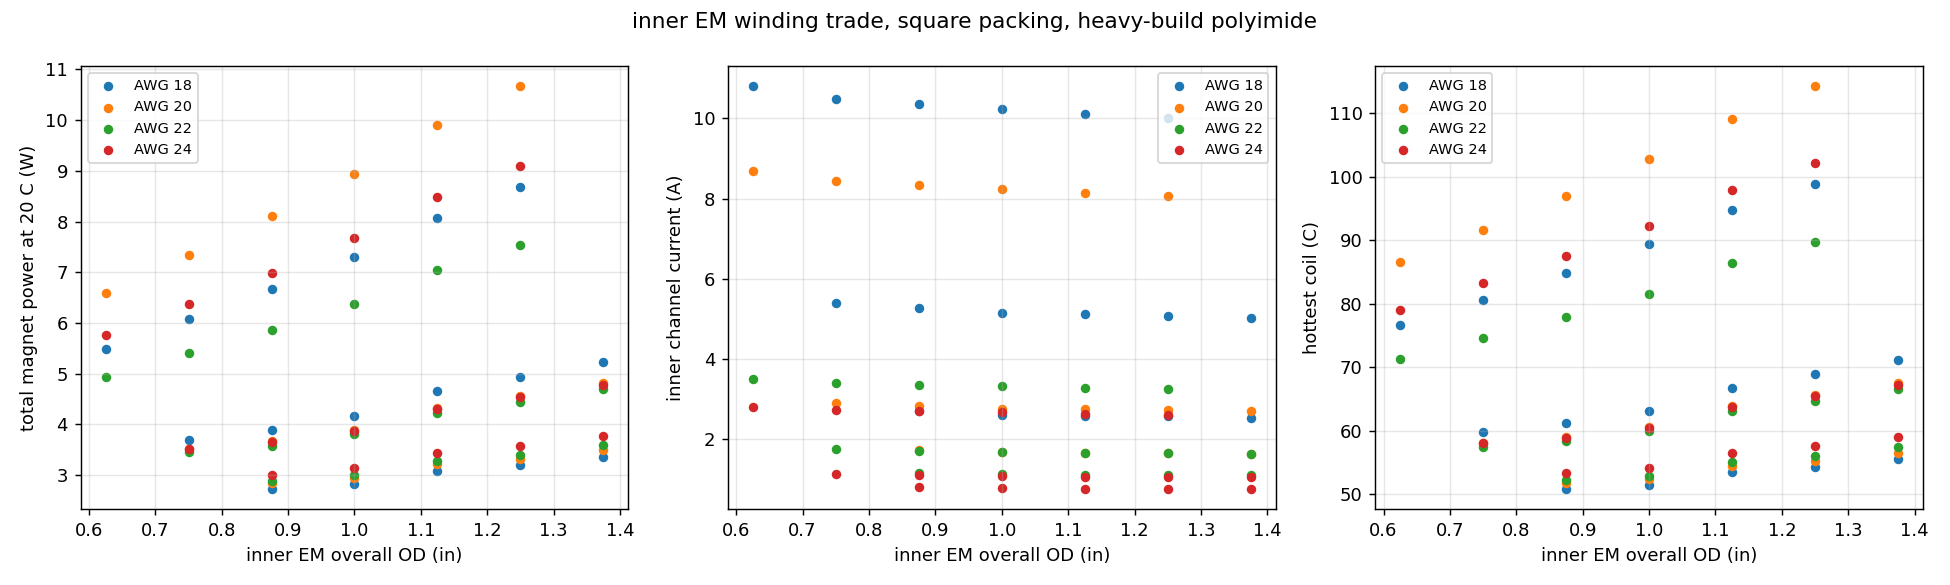
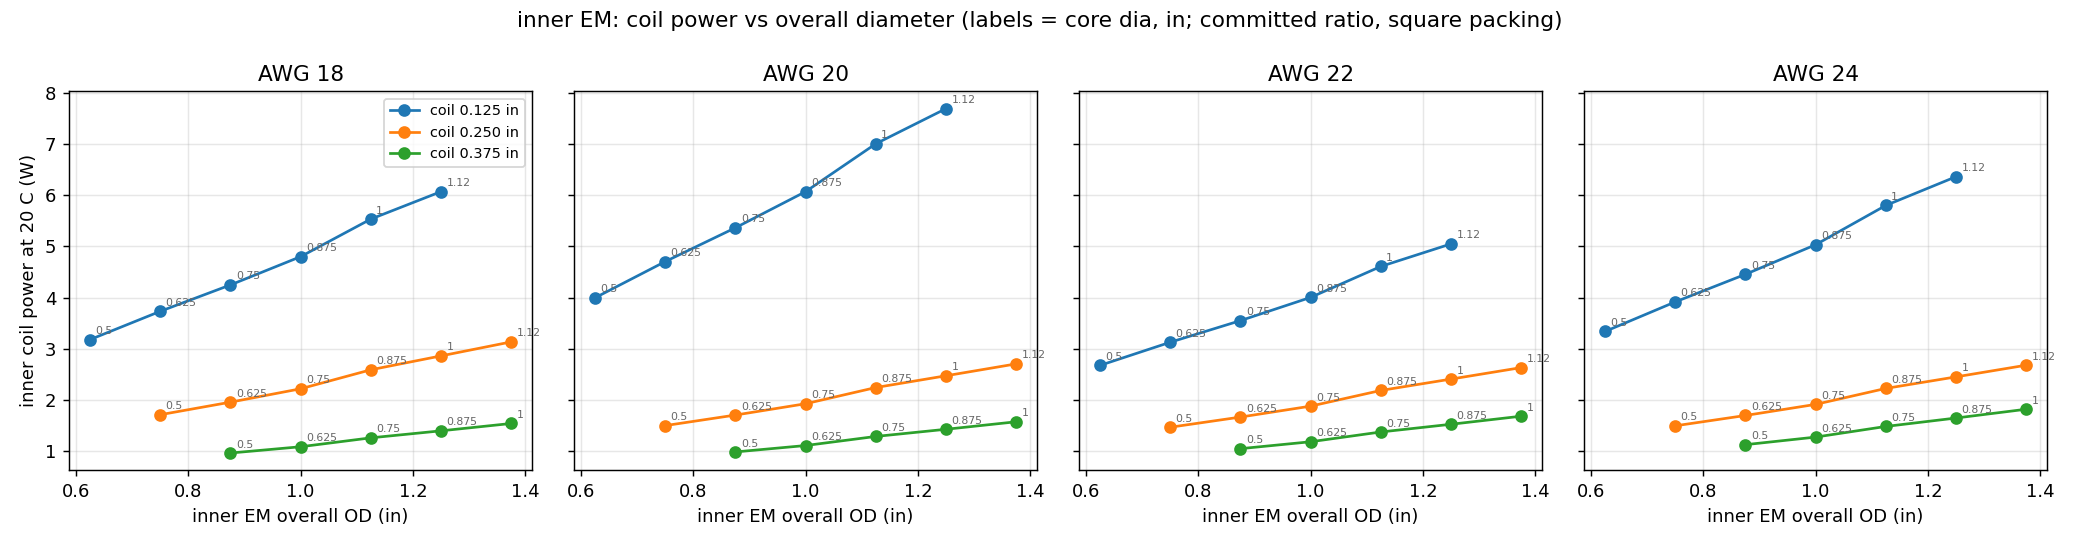
Add B-field cross-section figures; plot sweeps at the committed ratio
field_cross_sections.py solves the baseline and final geometries at their
operating excitation and renders r-y slices plus the channel B_r profile
against the field-quality target. em_sizing_plots.py now plots the
committed 214.5/338 ratio throughout, excludes the plate points from the
outer family, and draws coil power vs overall diameter per gauge.

diff --git a/gmsh_getdp/assembly/field_cross_sections.py b/gmsh_getdp/assembly/field_cross_sections.py
@@ -1,0 +1,161 @@
+"""
+field_cross_sections.py
+
+B-field cross-section figures for the design write-up: one direct linear
+solve per geometry at the excitation it actually runs at, fields kept, then
+r-y slices through the thrust axis and the channel B_r profile against the
+field_quality.py target.
+
+Geometries:
+  baseline -- Onshape defaults (1.0 in cores), committed 338/214.5 ratio
+              scaled to 300 G at the exit
+  final    -- sizing/EMAG_SPEC.md: 0.75 in cores, inner 230 t x 1.531 A,
+              outer 184 t x 1.214 A
+
+Usage (from gmsh_getdp/assembly/):  python field_cross_sections.py
+"""
+import json
+import math
+import sys
+from pathlib import Path
+
+import numpy as np
+
+HERE = Path(__file__).resolve().parent
+sys.path.insert(0, str(HERE))
+sys.path.insert(0, str(HERE.parents[1]))
+
+from bpl1000_geometry import CHANNEL, IN  # noqa: E402
+from build_assembly import build, EXCITATION  # noqa: E402
+from em_sizing_sweep import rewrite_channel, IRON_MUR, TARGET_G  # noqa: E402
+from emag_sweep import run_getdp, slice_plane  # noqa: E402
+from field_quality import axial_profile, evaluate_field_quality, target_profile  # noqa: E402
+from generate_regions import generate_regions_pro  # noqa: E402
+from onshape.cache import DEFAULTS_IN  # noqa: E402
+from params_utils import parse_params  # noqa: E402
+from pos_utils import parse_pos_elements  # noqa: E402
+
+OUT = HERE / "em_sizing_figures"
+RUNS = HERE / "sweep_runs_bpl1000" / "cross_sections"
+
+CASES = {
+    "baseline": dict(cfg=dict(DEFAULTS_IN), ni=(344.15, 218.41),
+                     label="Baseline: 1.0 in cores (Onshape defaults)"),
+    "final": dict(cfg=dict(DEFAULTS_IN, iem_coreod=0.75, iem_coilt=0.375,
+                           oem_coreod=0.75, oem_coilt=0.3125),
+                  ni=(230 * 1.531, 184 * 1.214),
+                  label="Final spec: 0.75 in cores, 230 t x 1.53 A / 184 t x 1.21 A"),
+}
+
+
+def solve(name, case):
+    run_dir = RUNS / name
+    run_dir.mkdir(parents=True, exist_ok=True)
+    if not (run_dir / "b_assembly.pos").exists():
+        build(case["cfg"], str(run_dir), None, include_chamber_spacer_as_iron=True)
+        rewrite_channel(run_dir / "assembly_params.txt")
+        params = parse_params(run_dir / "assembly_params.txt")
+        ni_in, ni_out = case["ni"]
+        exc = {"inner_coil": dict(turns=1, current=ni_in, polarity=EXCITATION["inner_coil"]["polarity"]),
+               "outer_coil": dict(turns=1, current=ni_out, polarity=EXCITATION["outer_coil"]["polarity"])}
+        generate_regions_pro(params, exc, out_path=str(run_dir / "assembly_regions_generated.pro"),
+                             iron_mur=IRON_MUR)
+        run_getdp(run_dir)
+    params = parse_params(run_dir / "assembly_params.txt")
+    nodes, B = parse_pos_elements(run_dir / "b_assembly.pos")
+    return params, nodes.mean(axis=1), B
+
+
+def grid_slice(sl, s_lim, y_lim, n=320):
+    from scipy.interpolate import griddata
+    s, y = sl[:, 0], sl[:, 1]
+    S, Y = np.meshgrid(np.linspace(*s_lim, n), np.linspace(*y_lim, n))
+    Bs = griddata((s, y), sl[:, 2], (S, Y), method="linear")
+    By = griddata((s, y), sl[:, 3], (S, Y), method="linear")
+    return S, Y, Bs, By
+
+
+def draw(name, case, params, cent, B):
+    import matplotlib
+    matplotlib.use("Agg")
+    import matplotlib.pyplot as plt
+    from matplotlib.colors import LogNorm
+
+    ax_x, ax_z = params["axis_x"], params["axis_z"]
+    outer = [w["loc"] for w in params["windings"] if w["pole"] == "outer_coil"]
+    q = max(outer, key=lambda l: l[0] + l[1])
+    nrm = math.hypot(q[0] - ax_x, q[1] - ax_z)
+    diag = ((q[0] - ax_x) / nrm, (q[1] - ax_z) / nrm)
+    between = ((diag[0] - diag[1]) / math.sqrt(2), (diag[0] + diag[1]) / math.sqrt(2))
+
+    fig, axs = plt.subplots(1, 2, figsize=(14, 5.2), constrained_layout=True)
+    for ax, (direction, title) in zip(axs, ((diag, "slice through an outer core"),
+                                            (between, "slice between outer cores"))):
+        sl = slice_plane(cent, B, ax_x, ax_z, direction, half_width=0.0012, r_max=0.1)
+        S, Y, Bs, By = grid_slice(sl, (-0.085, 0.085), (-0.06, 0.035))
+        Bm = np.hypot(Bs, By) * 1e4
+        im = ax.pcolormesh(S * 1e3, Y * 1e3, Bm, shading="auto", cmap="magma",
+                           norm=LogNorm(vmin=20, vmax=8000))
+        ok = np.isfinite(Bs) & np.isfinite(By)
+        ax.streamplot(S[0] * 1e3, Y[:, 0] * 1e3, np.where(ok, Bs, 0), np.where(ok, By, 0),
+                      color="w", linewidth=0.5, density=1.4, arrowsize=0.6)
+        for sgn in (-1, 1):
+            r0, r1 = CHANNEL["channel_inner_r"] * 1e3, CHANNEL["channel_outer_r"] * 1e3
+            y0, y1 = CHANNEL["channel_y_exit"] * 1e3, CHANNEL["channel_y_anode"] * 1e3
+            xs = sorted((sgn * r0, sgn * r1))
+            ax.add_patch(plt.Rectangle((xs[0], y0), xs[1] - xs[0], y1 - y0, fill=False,
+                                       ec="cyan", lw=1.4, ls="--"))
+        ax.set_aspect("equal")
+        ax.set_xlabel("distance from thrust axis (mm)")
+        ax.set_ylabel("axial position y (mm), exit at -37.8")
+        ax.set_title(title)
+    fig.colorbar(im, ax=axs, label="|B| (gauss, log scale)", shrink=0.9, pad=0.01)
+    fig.suptitle(f"{case['label']}  (cyan dashed = discharge channel)")
+    fig.savefig(OUT / f"cross_section_{name}.png", dpi=140, bbox_inches="tight")
+    plt.close(fig)
+
+    prof = axial_profile(cent, B, ax_x, ax_z, CHANNEL["channel_inner_r"], CHANNEL["channel_outer_r"],
+                         CHANNEL["channel_y_anode"], CHANNEL["channel_y_exit"], n_stations=20)
+    p = dict(prof, B_r=prof["B_r"] * 1e4, Bmag=prof["Bmag"] * 1e4)
+    fq = evaluate_field_quality(p, B_peak=TARGET_G)
+    return p, fq
+
+
+def profile_figure(profiles):
+    import matplotlib
+    matplotlib.use("Agg")
+    import matplotlib.pyplot as plt
+    fig, ax = plt.subplots(figsize=(8.5, 5))
+    s = np.linspace(0, 1, 200)
+    ax.plot(s, target_profile(s, TARGET_G, 30.0, 3.0), "k--", lw=1.2,
+            label="target shape (field_quality.py)")
+    for (name, (p, fq)), c in zip(profiles.items(), ("0.6", "C0")):
+        ax.plot(p["s"], p["B_r"], "o-", color=c, ms=4,
+                label=f"{CASES[name]['label'].split(':')[0]}: score {fq['composite_score']:.1f}, "
+                      f"radial purity {fq['radial_purity_pct']:.1f}%")
+    ax.axhline(TARGET_G, color="0.8", lw=0.8)
+    ax.set_xlabel("position along channel, anode (0) to exit (1)")
+    ax.set_ylabel("radial field B_r, channel-averaged (G)")
+    ax.set_title("Channel radial-field profile vs target")
+    ax.grid(alpha=0.3)
+    ax.legend(fontsize=8)
+    fig.tight_layout()
+    fig.savefig(OUT / "channel_profile.png", dpi=140)
+    plt.close(fig)
+
+
+def main():
+    OUT.mkdir(exist_ok=True)
+    profiles = {}
+    for name, case in CASES.items():
+        params, cent, B = solve(name, case)
+        profiles[name] = draw(name, case, params, cent, B)
+        p, fq = profiles[name]
+        print(f"{name}: B_r exit {p['B_r'][-1]:.1f} G, peak {np.nanmax(p['B_r']):.1f} G, "
+              f"score {fq['composite_score']:.2f}, purity {fq['radial_purity_pct']:.2f}%")
+    profile_figure(profiles)
+    print(json.dumps({k: {"score": v[1]["composite_score"]} for k, v in profiles.items()}))
+
+
+if __name__ == "__main__":
+    main()

diff --git a/gmsh_getdp/assembly/em_sizing_plots.py b/gmsh_getdp/assembly/em_sizing_plots.py
@@ -26,9 +26,7 @@ def family(df, em):
     (the baseline belongs to both families)."""
     other = "oem" if em == "iem" else "iem"
     m = (df[f"{other}_coreod"] == D[f"{other}_coreod"]) & (df[f"{other}_coilt"] == D[f"{other}_coilt"]) \
-        & (df["emag_height"] == D["emag_height"])
-    if em == "iem":
-        m &= df["iem_platet"] == D["iem_platet"]
+        & (df["emag_height"] == D["emag_height"]) & (df["iem_platet"] == D["iem_platet"])
     return df[m]
 
 
@@ -47,16 +45,16 @@ def main():
     wt_path = HERE.parents[1] / "sizing" / "em_winding_trade.csv"
     wt = pd.read_csv(wt_path) if wt_path.exists() else None
 
-    for em, name, at_col, sh_col in (("iem", "inner", "best_req_inner_At", "best_inner_shaft_B_max_T"),
-                                      ("oem", "outer", "best_req_outer_At", "best_outer_shaft_B_max_T")):
+    for em, name, at_col, sh_col in (("iem", "inner", "ref_req_inner_At", "ref_inner_shaft_B_max_T"),
+                                      ("oem", "outer", "ref_req_outer_At", "ref_outer_shaft_B_max_T")):
         sub = family(geo, em)
         if sub.empty:
             continue
         fig, axs = plt.subplots(2, 2, figsize=(11, 8))
-        per_coilt(axs[0, 0], sub, em, at_col, f"required {name} A-turns (best ratio)")
+        per_coilt(axs[0, 0], sub, em, at_col, f"required {name} A-turns (committed 214.5/338 ratio)")
         per_coilt(axs[0, 1], sub, em, sh_col, f"max {name} shaft |B| (T)")
         axs[0, 1].axhline(KNEE_T, color="k", ls="--", lw=1, label="knee (linear invalid above)")
-        per_coilt(axs[1, 0], sub, em, "best_quality_score", "field-quality score (best ratio)")
+        per_coilt(axs[1, 0], sub, em, "ref_quality_score", "field-quality score (committed ratio)")
         per_coilt(axs[1, 1], sub, em, "best_ratio", "optimal outer/inner A-turn ratio")
         axs[1, 1].axhline(214.5 / 338, color="k", ls=":", lw=1, label="committed 214.5/338")
         for a in axs.flat:
@@ -67,21 +65,26 @@ def main():
         plt.close(fig)
 
         if wt is not None:
-            w = wt[(wt.excitation == "best") & (wt.packing == "square") & wt.tag.isin(sub.tag)]
-            fig, axs = plt.subplots(1, 3, figsize=(15, 4.5))
-            for awg, g in w.groupby("awg"):
-                g = g.sort_values(f"{name}_em_od_in")
-                axs[0].scatter(g[f"{name}_em_od_in"], g["P20_W"], label=f"AWG {awg}", s=18)
-                axs[1].scatter(g[f"{name}_em_od_in"], g[f"current_{name}_A"], label=f"AWG {awg}", s=18)
-                axs[2].scatter(g[f"{name}_em_od_in"], g["T_coil_hot_C"], label=f"AWG {awg}", s=18)
-            axs[0].set_ylabel("total magnet power at 20 C (W)")
-            axs[1].set_ylabel(f"{name} channel current (A)")
-            axs[2].set_ylabel("hottest coil (C)")
-            for a in axs:
-                a.set_xlabel(f"{name} EM overall OD (in)")
-                a.grid(alpha=0.3)
-                a.legend(fontsize=8)
-            fig.suptitle(f"{name} EM winding trade, square packing, heavy-build polyimide")
+            w = wt[(wt.excitation == "ref") & (wt.packing == "square") & wt.tag.isin(sub.tag)]
+            # This magnet's own coil power (I x V at 20 C), one panel per
+            # gauge, one line per coil thickness: at a given overall OD the
+            # thinner core with the thicker coil wins.
+            w = w.assign(P_own=w[f"current_{name}_A"] * w[f"V20_{name}"])
+            awgs = sorted(w.awg.unique())
+            fig, axs = plt.subplots(1, len(awgs), figsize=(4 * len(awgs), 4.2), sharey=True)
+            for ax, awg in zip(axs, awgs):
+                for t, g in sorted(w[w.awg == awg].groupby(f"{em}_coilt")):
+                    g = g.sort_values(f"{name}_em_od_in")
+                    ax.plot(g[f"{name}_em_od_in"], g["P_own"], "o-", label=f"coil {t:.3f} in")
+                    for _, r in g.iterrows():
+                        ax.annotate(f"{r[f'{em}_coreod']:.3g}", (r[f"{name}_em_od_in"], r["P_own"]),
+                                    textcoords="offset points", xytext=(3, 3), fontsize=6, color="0.4")
+                ax.set_title(f"AWG {awg}")
+                ax.set_xlabel(f"{name} EM overall OD (in)")
+                ax.grid(alpha=0.3)
+            axs[0].set_ylabel(f"{name} coil power at 20 C (W)" + (" (all 4)" if name == "outer" else ""))
+            axs[0].legend(fontsize=8)
+            fig.suptitle(f"{name} EM: coil power vs overall diameter (labels = core dia, in; committed ratio, square packing)")
             fig.tight_layout()
             fig.savefig(OUT / f"{name}_winding.png", dpi=130)
             plt.close(fig)
@@ -91,8 +94,8 @@ def main():
     if len(plate) > 1:
         plate = plate.sort_values("iem_platet")
         fig, axs = plt.subplots(1, 3, figsize=(14, 4))
-        for a, c, l in zip(axs, ("best_req_inner_At", "best_quality_score", "best_inner_shaft_B_max_T"),
-                           ("required inner A-turns", "field-quality score", "max inner shaft |B| (T)")):
+        for a, c, l in zip(axs, ("ref_req_inner_At", "ref_quality_score", "ref_inner_shaft_B_max_T"),
+                           ("required inner A-turns (committed ratio)", "field-quality score (committed ratio)", "max inner shaft |B| (T)")):
             a.plot(plate.iem_platet, plate[c], "o-")
             a.set_xlabel("inner pole-plate thickness (in)")
             a.set_ylabel(l)
